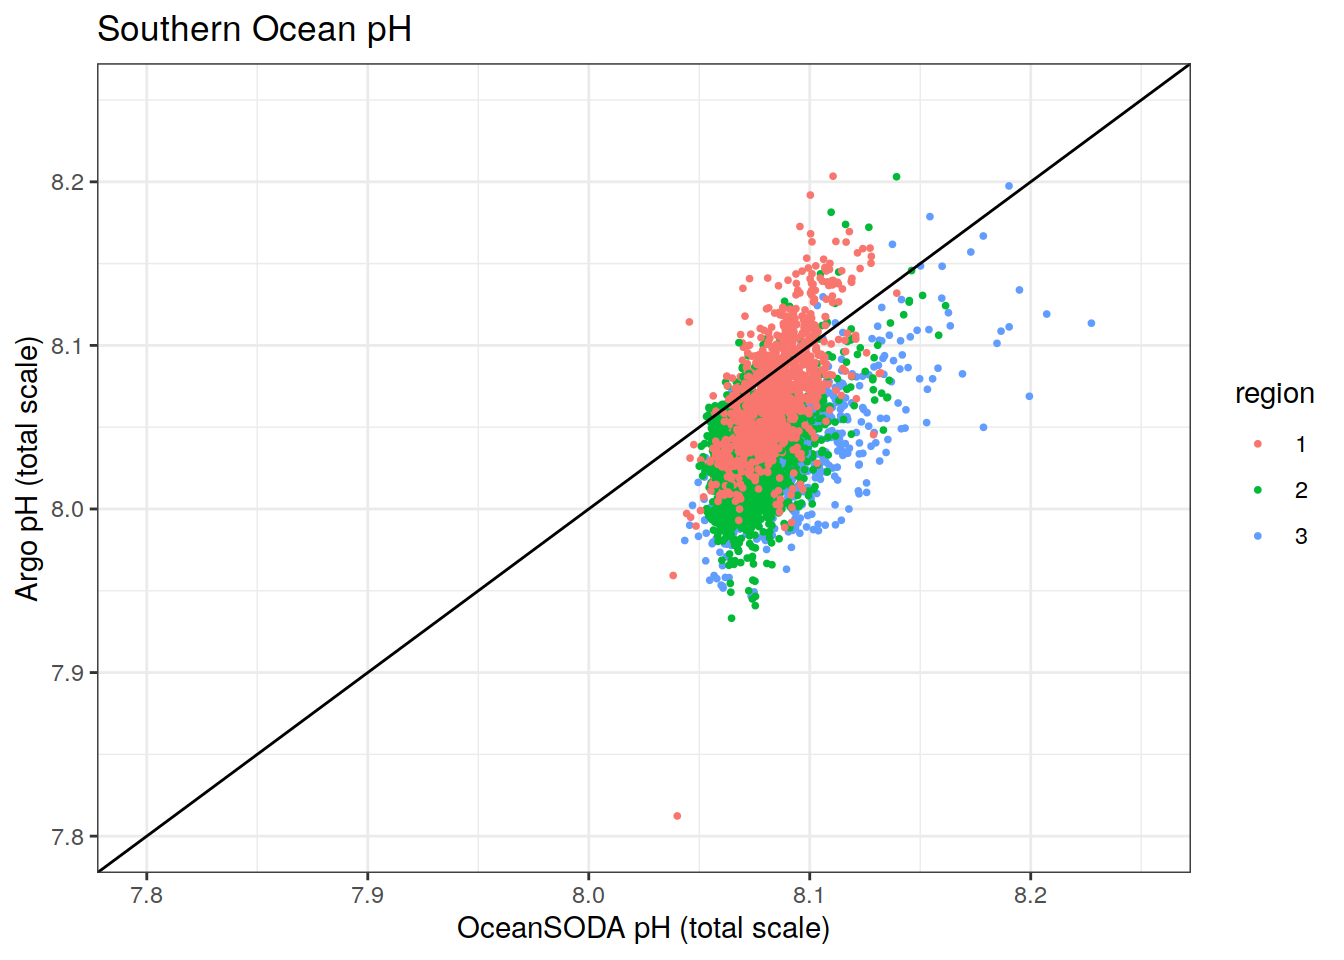
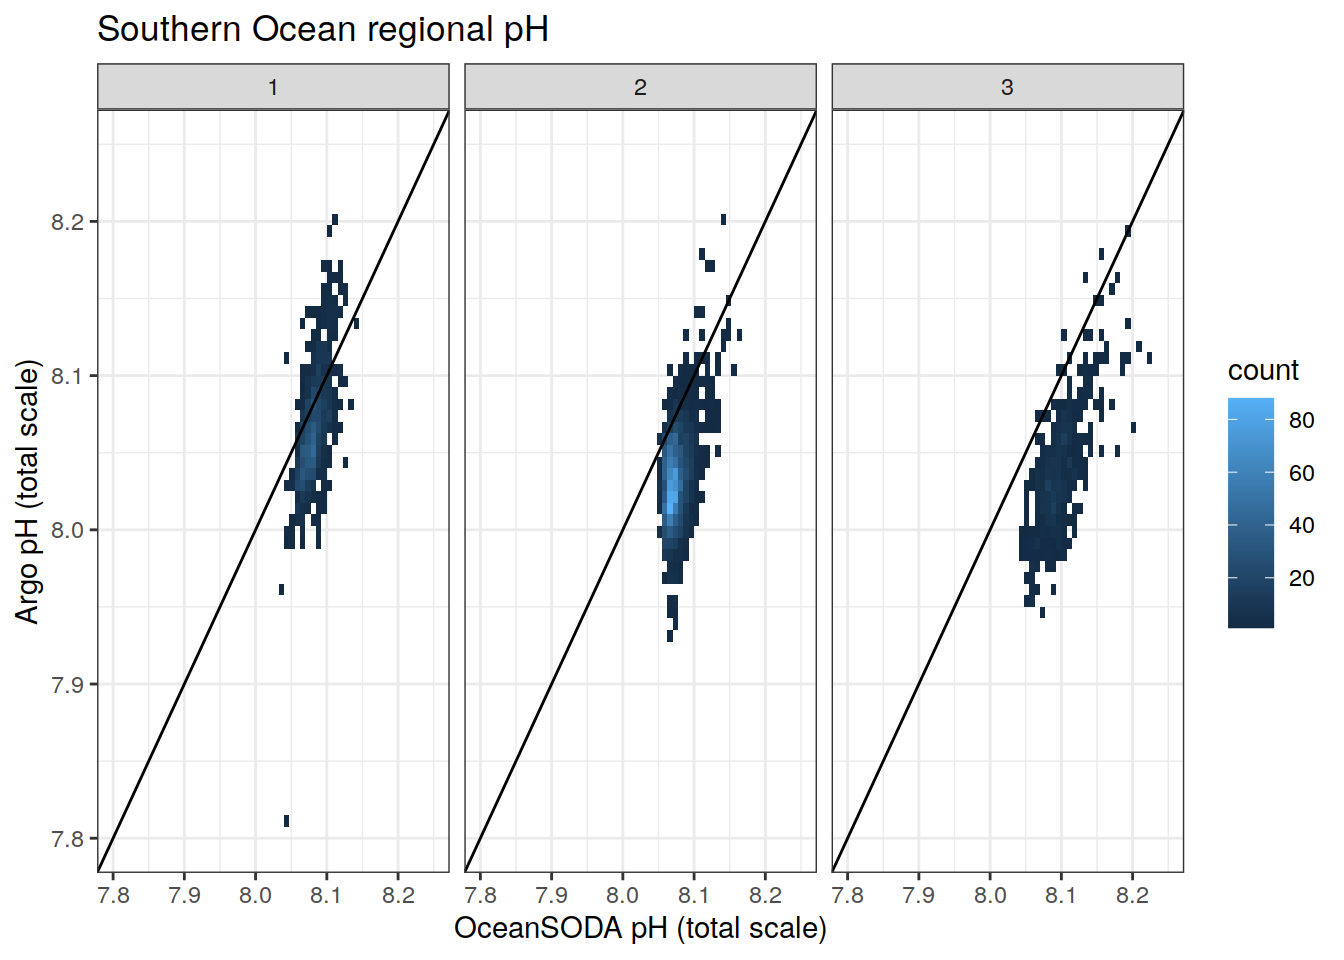
Build site.

diff --git a/docs/oceanSODA_argo.html b/docs/oceanSODA_argo.html
@@ -411,7 +411,7 @@ div.tocify {
 
 <h1 class="title toc-ignore">OceanSODA-Argo pH</h1>
 <h4 class="author">Pasqualina Vonlanthen &amp; Jens Daniel Müller</h4>
-<h4 class="date">17 December, 2021</h4>
+<h4 class="date">22 December, 2021</h4>
 
 </div>
 
@@ -436,7 +436,7 @@ div.tocify {
 <div class="tab-content">
 <div id="summary" class="tab-pane fade in active">
 <p>
-<strong>Last updated:</strong> 2021-12-17
+<strong>Last updated:</strong> 2021-12-22
 </p>
 <p>
 <strong>Checks:</strong> <span class="glyphicon glyphicon-ok text-success" aria-hidden="true"></span> 7 <span class="glyphicon glyphicon-exclamation-sign text-danger" aria-hidden="true"></span> 0
@@ -527,16 +527,16 @@ This reproducible <a href="http://rmarkdown.rstudio.com">R Markdown</a> analysis
 <div class="panel panel-default">
 <div class="panel-heading">
 <p class="panel-title">
-<a data-toggle="collapse" data-parent="#workflowr-checks" href="#strongRepositoryversionstrongahrefhttpsgithubcomjensdanielmuellerbgcargorargodatatreec4cce1afb4cd9f1cd8f68de39e836759893cf0bctargetblankc4cce1aa"> <span class="glyphicon glyphicon-ok text-success" aria-hidden="true"></span> <strong>Repository version:</strong> <a href="https://github.com/jens-daniel-mueller/bgc_argo_r_argodata/tree/c4cce1afb4cd9f1cd8f68de39e836759893cf0bc" target="_blank">c4cce1a</a> </a>
+<a data-toggle="collapse" data-parent="#workflowr-checks" href="#strongRepositoryversionstrongahrefhttpsgithubcomjensdanielmuellerbgcargorargodatatree89c3e41c8a48588e455d53c396d4b83e8191e801targetblank89c3e41a"> <span class="glyphicon glyphicon-ok text-success" aria-hidden="true"></span> <strong>Repository version:</strong> <a href="https://github.com/jens-daniel-mueller/bgc_argo_r_argodata/tree/89c3e41c8a48588e455d53c396d4b83e8191e801" target="_blank">89c3e41</a> </a>
 </p>
 </div>
[2 lines of base64/hex data omitted]
 <div class="panel-body">
 <p>
 Great! You are using Git for version control. Tracking code development and connecting the code version to the results is critical for reproducibility.
 </p>
 <p>
-The results in this page were generated with repository version <a href="https://github.com/jens-daniel-mueller/bgc_argo_r_argodata/tree/c4cce1afb4cd9f1cd8f68de39e836759893cf0bc" target="_blank">c4cce1a</a>. See the <em>Past versions</em> tab to see a history of the changes made to the R Markdown and HTML files.
+The results in this page were generated with repository version <a href="https://github.com/jens-daniel-mueller/bgc_argo_r_argodata/tree/89c3e41c8a48588e455d53c396d4b83e8191e801" target="_blank">89c3e41</a>. See the <em>Past versions</em> tab to see a history of the changes made to the R Markdown and HTML files.
 </p>
 <p>
 Note that you need to be careful to ensure that all relevant files for the analysis have been committed to Git prior to generating the results (you can use <code>wflow_publish</code> or <code>wflow_git_commit</code>). workflowr only checks the R Markdown file, but you know if there are other scripts or data files that it depends on. Below is the status of the Git repository when the results were generated:
@@ -590,6 +590,40 @@ Message
 </tr>
 </thead>
 <tbody>
+<tr>
+<td>
+Rmd
+</td>
+<td>
+<a href="https://github.com/jens-daniel-mueller/bgc_argo_r_argodata/blob/89c3e41c8a48588e455d53c396d4b83e8191e801/analysis/oceanSODA_argo.Rmd" target="_blank">89c3e41</a>
+</td>
+<td>
+pasqualina-vonlanthendinenna
+</td>
+<td>
+2021-12-22
+</td>
+<td>
+added basin separations to OceanSODA
+</td>
+</tr>
+<tr>
+<td>
+html
+</td>
+<td>
+<a href="https://rawcdn.githack.com/jens-daniel-mueller/bgc_argo_r_argodata/7f3cfe780c2d1c4012588b36151b5e0c3dca5d1d/docs/oceanSODA_argo.html" target="_blank">7f3cfe7</a>
+</td>
+<td>
+pasqualina-vonlanthendinenna
+</td>
+<td>
+2021-12-17
+</td>
+<td>
+Build site.
+</td>
+</tr>
 <tr>
 <td>
 Rmd
@@ -1112,6 +1146,17 @@ Date
 <tbody>
 <tr>
 <td>
+<a href="https://github.com/jens-daniel-mueller/bgc_argo_r_argodata/blob/7f3cfe780c2d1c4012588b36151b5e0c3dca5d1d/docs/figure/oceanSODA_argo.Rmd/climatological_map-1.png" target="_blank">7f3cfe7</a>
+</td>
+<td>
+pasqualina-vonlanthendinenna
+</td>
+<td>
+2021-12-17
+</td>
+</tr>
+<tr>
+<td>
 <a href="https://github.com/jens-daniel-mueller/bgc_argo_r_argodata/blob/10ddefb1a0429818d296443af9fc76122adc5816/docs/figure/oceanSODA_argo.Rmd/climatological_map-1.png" target="_blank">10ddefb</a>
 </td>
 <td>
@@ -1186,6 +1231,17 @@ Date
 </tr>
 </thead>
 <tbody>
+<tr>
+<td>
+<a href="https://github.com/jens-daniel-mueller/bgc_argo_r_argodata/blob/7f3cfe780c2d1c4012588b36151b5e0c3dca5d1d/docs/figure/oceanSODA_argo.Rmd/polar_projection_map-1.png" target="_blank">7f3cfe7</a>
+</td>
+<td>
+pasqualina-vonlanthendinenna
+</td>
+<td>
+2021-12-17
+</td>
+</tr>
 <tr>
 <td>
 <a href="https://github.com/jens-daniel-mueller/bgc_argo_r_argodata/blob/10ddefb1a0429818d296443af9fc76122adc5816/docs/figure/oceanSODA_argo.Rmd/polar_projection_map-1.png" target="_blank">10ddefb</a>
@@ -1263,6 +1319,17 @@ Date
 <tbody>
 <tr>
 <td>
+<a href="https://github.com/jens-daniel-mueller/bgc_argo_r_argodata/blob/7f3cfe780c2d1c4012588b36151b5e0c3dca5d1d/docs/figure/oceanSODA_argo.Rmd/clim_map_argo_pH-1.png" target="_blank">7f3cfe7</a>
+</td>
+<td>
+pasqualina-vonlanthendinenna
+</td>
+<td>
+2021-12-17
+</td>
+</tr>
+<tr>
+<td>
 <a href="https://github.com/jens-daniel-mueller/bgc_argo_r_argodata/blob/10ddefb1a0429818d296443af9fc76122adc5816/docs/figure/oceanSODA_argo.Rmd/clim_map_argo_pH-1.png" target="_blank">10ddefb</a>
 </td>
 <td>
@@ -1325,6 +1392,17 @@ Date
 </tr>
 </thead>
 <tbody>
+<tr>
+<td>
+<a href="https://github.com/jens-daniel-mueller/bgc_argo_r_argodata/blob/7f3cfe780c2d1c4012588b36151b5e0c3dca5d1d/docs/figure/oceanSODA_argo.Rmd/polar_projection_Argo_pH-1.png" target="_blank">7f3cfe7</a>
+</td>
+<td>
+pasqualina-vonlanthendinenna
+</td>
+<td>
+2021-12-17
+</td>
+</tr>
 <tr>
 <td>
 <a href="https://github.com/jens-daniel-mueller/bgc_argo_r_argodata/blob/10ddefb1a0429818d296443af9fc76122adc5816/docs/figure/oceanSODA_argo.Rmd/polar_projection_Argo_pH-1.png" target="_blank">10ddefb</a>
@@ -1477,6 +1555,17 @@ Date
 <tbody>
 <tr>
 <td>
+<a href="https://github.com/jens-daniel-mueller/bgc_argo_r_argodata/blob/7f3cfe780c2d1c4012588b36151b5e0c3dca5d1d/docs/figure/oceanSODA_argo.Rmd/yearly_timeseries_monthly_oceanSODA_pH-1.png" target="_blank">7f3cfe7</a>
+</td>
+<td>
+pasqualina-vonlanthendinenna
+</td>
+<td>
+2021-12-17
+</td>
+</tr>
+<tr>
+<td>
 <a href="https://github.com/jens-daniel-mueller/bgc_argo_r_argodata/blob/10ddefb1a0429818d296443af9fc76122adc5816/docs/figure/oceanSODA_argo.Rmd/yearly_timeseries_monthly_oceanSODA_pH-1.png" target="_blank">10ddefb</a>
 </td>
 <td>
@@ -1544,6 +1633,17 @@ Date
 <tbody>
 <tr>
 <td>
+<a href="https://github.com/jens-daniel-mueller/bgc_argo_r_argodata/blob/7f3cfe780c2d1c4012588b36151b5e0c3dca5d1d/docs/figure/oceanSODA_argo.Rmd/calculate_in_situ_offset-1.png" target="_blank">7f3cfe7</a>
+</td>
+<td>
+pasqualina-vonlanthendinenna
+</td>
+<td>
+2021-12-17
+</td>
+</tr>
+<tr>
+<td>
 <a href="https://github.com/jens-daniel-mueller/bgc_argo_r_argodata/blob/9abcd5e5388f2dbb938c1aa2dda7d4f044fde966/docs/figure/oceanSODA_argo.Rmd/calculate_in_situ_offset-1.png" target="_blank">9abcd5e</a>
 </td>
 <td>
@@ -1603,16 +1703,55 @@ pasqualina-vonlanthendinenna
 </div>
 <pre class="r"><code>argo_OceanSODA_SO %&gt;% 
   drop_na() %&gt;% 
-  ggplot(aes(x = OceanSODA_ph, y = argo_ph_month, col = value))+
-  geom_point(pch = 19, size = 0.7)+
+  ggplot(aes(x = OceanSODA_ph, y = argo_ph_month))+
+  # geom_point(pch = 19, size = 0.7)+
+  geom_bin2d(aes(x = OceanSODA_ph, y = argo_ph_month), size = 0.3, bins = 60)+
   lims(x = c(7.8, 8.25), 
        y = c(7.8, 8.25)) +
   geom_abline(slope = 1, intercept = 0)+
+  facet_wrap(~value)+
   labs(x = &#39;OceanSODA pH (total scale)&#39;,
        y = &#39;Argo pH (total scale)&#39;,
        col = &#39;region&#39;,
-       title = &#39;Southern Ocean pH&#39;)</code></pre>
+       title = &#39;Southern Ocean regional pH&#39;)</code></pre>
 <p><img src="figure/oceanSODA_argo.Rmd/oceanSODA_vs_argo_ph_plot-1.png" width="672" style="display: block; margin: auto;" /></p>
+<p>
+<button type="button" class="btn btn-default btn-xs btn-workflowr btn-workflowr-fig" data-toggle="collapse" data-target="#fig-oceanSODA_vs_argo_ph_plot-1">
+Past versions of oceanSODA_vs_argo_ph_plot-1.png
+</button>
+</p>
+<div id="fig-oceanSODA_vs_argo_ph_plot-1" class="collapse">
+<div class="table-responsive">
+<table class="table table-condensed table-hover">
+<thead>
+<tr>
+<th>
+Version
+</th>
+<th>
+Author
+</th>
+<th>
+Date
+</th>
+</tr>
+</thead>
+<tbody>
+<tr>
+<td>
+<a href="https://github.com/jens-daniel-mueller/bgc_argo_r_argodata/blob/7f3cfe780c2d1c4012588b36151b5e0c3dca5d1d/docs/figure/oceanSODA_argo.Rmd/oceanSODA_vs_argo_ph_plot-1.png" target="_blank">7f3cfe7</a>
+</td>
+<td>
+pasqualina-vonlanthendinenna
+</td>
+<td>
+2021-12-17
+</td>
+</tr>
+</tbody>
+</table>
+</div>
+</div>
 <p>Mean offset between in-situ OceanSODA pH and in-situ Argo pH</p>
 <pre class="r"><code>mean_insitu_offset &lt;- argo_OceanSODA_SO %&gt;%
   group_by(date, value) %&gt;% 
@@ -1661,6 +1800,17 @@ Date
 </tr>
 </thead>
 <tbody>
+<tr>
+<td>
+<a href="https://github.com/jens-daniel-mueller/bgc_argo_r_argodata/blob/7f3cfe780c2d1c4012588b36151b5e0c3dca5d1d/docs/figure/oceanSODA_argo.Rmd/mean_in_situ_offset-1.png" target="_blank">7f3cfe7</a>
+</td>
+<td>
+pasqualina-vonlanthendinenna
+</td>
+<td>
+2021-12-17
+</td>
+</tr>
 <tr>
 <td>
 <a href="https://github.com/jens-daniel-mueller/bgc_argo_r_argodata/blob/9abcd5e5388f2dbb938c1aa2dda7d4f044fde966/docs/figure/oceanSODA_argo.Rmd/mean_in_situ_offset-1.png" target="_blank">9abcd5e</a>
@@ -1749,6 +1899,17 @@ Date
 <tbody>
 <tr>
 <td>
+<a href="https://github.com/jens-daniel-mueller/bgc_argo_r_argodata/blob/7f3cfe780c2d1c4012588b36151b5e0c3dca5d1d/docs/figure/oceanSODA_argo.Rmd/climatological_offset_all_years-1.png" target="_blank">7f3cfe7</a>
+</td>
+<td>
+pasqualina-vonlanthendinenna
+</td>
+<td>
+2021-12-17
+</td>
+</tr>
+<tr>
+<td>
 <a href="https://github.com/jens-daniel-mueller/bgc_argo_r_argodata/blob/38a5110381b3df5f4eaab6fca4363a5c68805069/docs/figure/oceanSODA_argo.Rmd/climatological_offset_all_years-1.png" target="_blank">38a5110</a>
 </td>
 <td>
@@ -1818,6 +1979,17 @@ Date
 </tr>
 </thead>
 <tbody>
+<tr>
+<td>
+<a href="https://github.com/jens-daniel-mueller/bgc_argo_r_argodata/blob/7f3cfe780c2d1c4012588b36151b5e0c3dca5d1d/docs/figure/oceanSODA_argo.Rmd/map_climatological_offset-1.png" target="_blank">7f3cfe7</a>
+</td>
+<td>
+pasqualina-vonlanthendinenna
+</td>
+<td>
+2021-12-17
+</td>
+</tr>
 <tr>
 <td>
 <a href="https://github.com/jens-daniel-mueller/bgc_argo_r_argodata/blob/123e5dbbb1cacc3c54c9262bf8d21bc48c7830d7/docs/figure/oceanSODA_argo.Rmd/map_climatological_offset-1.png" target="_blank">123e5db</a>
@@ -1928,6 +2100,17 @@ Date
 <tbody>
 <tr>
 <td>
+<a href="https://github.com/jens-daniel-mueller/bgc_argo_r_argodata/blob/7f3cfe780c2d1c4012588b36151b5e0c3dca5d1d/docs/figure/oceanSODA_argo.Rmd/map_climatological_offsets_polar_map-1.png" target="_blank">7f3cfe7</a>
+</td>
+<td>
+pasqualina-vonlanthendinenna
+</td>
+<td>
+2021-12-17
+</td>
+</tr>
+<tr>
+<td>
 <a href="https://github.com/jens-daniel-mueller/bgc_argo_r_argodata/blob/123e5dbbb1cacc3c54c9262bf8d21bc48c7830d7/docs/figure/oceanSODA_argo.Rmd/map_climatological_offsets_polar_map-1.png" target="_blank">123e5db</a>
 </td>
 <td>
@@ -1996,6 +2179,58 @@ pasqualina-vonlanthendinenna
 </table>
 </div>
 </div>
+<div id="basin-separation" class="section level4">
+<h4>Basin separation</h4>
+<p>Each RECCAP biome (1, 2, 3) is separated into basins (Atlantic, Pacific, Indian)</p>
+<pre class="r"><code>basinmask &lt;-
+  read_csv(paste(path_emlr_utilities,
+                 &quot;basin_mask_WOA18.csv&quot;,
+                 sep = &quot;&quot;),
+           col_types = cols(&quot;MLR_basins&quot; = col_character()))
+
+basinmask &lt;- basinmask %&gt;% 
+  filter(MLR_basins == unique(basinmask$MLR_basins)[1]) %&gt;% 
+  select(lon, lat, basin_AIP)
+
+argo_OceanSODA_SO &lt;- inner_join(argo_OceanSODA_SO, basinmask) 
+
+argo_OceanSODA_SO &lt;- argo_OceanSODA_SO %&gt;% 
+  unite(biome_basin, value, basin_AIP, sep = &#39;_&#39;, remove = FALSE)</code></pre>
+<pre class="r"><code># plot timeseries of monthly OceanSODA pH
+argo_OceanSODA_SO_clim_subregional &lt;- argo_OceanSODA_SO %&gt;%
+  group_by(year, month, value, basin_AIP) %&gt;%  # compute regional mean OceanSODA pH for the three biomes
+  summarise(ph = mean(OceanSODA_ph, na.rm = TRUE)) %&gt;%
+  ungroup()
+
+# plot a timeseries of monthly average OceanSODA pH, per region and per basin
+argo_OceanSODA_SO_clim_subregional %&gt;%   
+  filter(year != 2014,
+         year != 2021) %&gt;%
+  ggplot(aes(x = month,
+             y = ph,
+             group = year,
+             col = as.character(year)))+
+  geom_line()+
+  geom_point()+
+  scale_x_continuous(breaks = seq(1, 12, 2))+
+  facet_grid(value~basin_AIP)+
+  labs(x = &#39;month&#39;,
+       y = &#39;pH in situ (total scale)&#39;,
+       title = &#39;monthly mean OceanSODA pH (Jan 2015-Dec 2020, Southern Ocean basins)&#39;,
+       col = &#39;year&#39;)</code></pre>
+<p><img src="figure/oceanSODA_argo.Rmd/monthly_OceanSODA_basin-1.png" width="672" style="display: block; margin: auto;" /></p>
+<pre class="r"><code>argo_OceanSODA_SO_clim_subregional %&gt;%   
+  ggplot(aes(x = year,
+             y = ph,
+             col = value)) +
+  facet_grid(month ~ basin_AIP) +
+  geom_line() +
+  geom_point() +
+  labs(x = &#39;year&#39;,
+       y = &#39;pH in situ (total scale)&#39;,
+       title = &#39;monthly mean pH (Apr 2014-Aug 2021, Southern Ocean basins)&#39;,
+       col = &#39;region&#39;)</code></pre>
+<p><img src="figure/oceanSODA_argo.Rmd/monthly_OceanSODA_basin_per_year-1.png" width="672" style="display: block; margin: auto;" /></p>
 <br>
 <p>
 <button type="button" class="btn btn-default btn-workflowr btn-workflowr-sessioninfo" data-toggle="collapse" data-target="#workflowr-sessioninfo" style="display: block;">
@@ -2060,6 +2295,7 @@ loaded via a namespace (and not attached):
 [79] lwgeom_0.2-5          broom_0.7.9           e1071_1.7-8          
 [82] later_1.3.0           viridisLite_0.4.0     class_7.3-17         
 [85] units_0.7-2           ellipsis_0.3.2       </code></pre>
+</div>
 </div>
 </div>
 </div>
